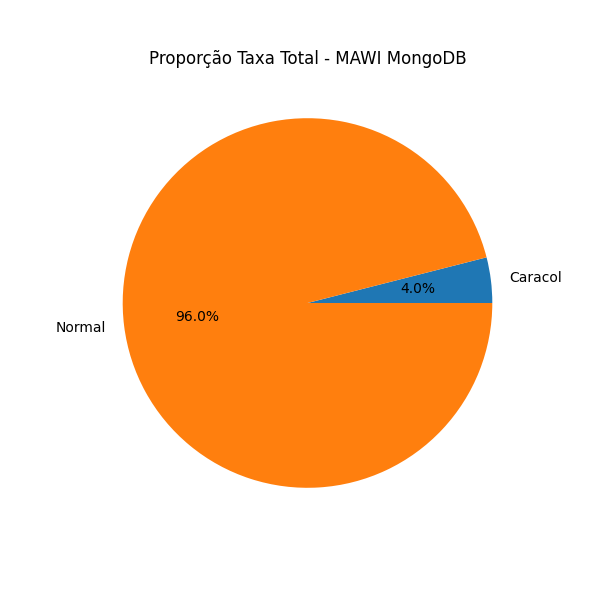
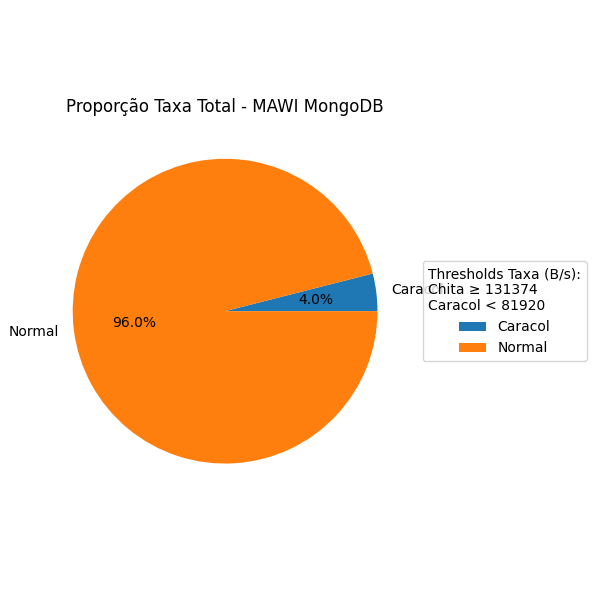
feat: gráfico de barras

Changed region(s): [[0.0, 0.15, 0.96, 0.84], [0.24, 0.09, 0.78, 0.12], [0.3, 0.51, 0.36, 0.54]]

diff --git a/Processamento/Porporcoes.py b/Processamento/Porporcoes.py
@@ -81,8 +81,7 @@ tartaruga_thresh = res.get("avg_duration", 0) + 3 * res.get("std_duration", 0)
 chita_thresh = res.get("avg_rate", 0) + 3 * res.get("std_rate", 0)
 CARACOL_RATE_THRESHOLD = res.get("avg_rate", 0) - res.get("std_rate", 0)  # Média menos 1 desvio padrão
 if CARACOL_RATE_THRESHOLD < 0:
-    CARACOL_RATE_THRESHOLD = 90 * 1024  # fallback para 92KB/s
-
+    CARACOL_RATE_THRESHOLD = 80 * 1024  # fallback para 92KB/s
 
 log("Thresholds calculados:")
 log(f"  Elefante ≥ {elefante_thresh:.2f} bytes; ")
@@ -199,46 +198,92 @@ result = list(collection.aggregate(pipeline))[0]
 def facet_to_df(facet_result):
     return pd.DataFrame(facet_result).rename(columns={"_id": "Categoria"}) if facet_result else pd.DataFrame(columns=["Categoria", "count"])
 
-total_fluxos = result["total_fluxos"][0]["count"] if result["total_fluxos"] else 0
-log(f"Total de fluxos: {total_fluxos}")
+def get_legend_text(selecao):
+    if selecao == "taxa":
+        return (f"Thresholds Taxa (B/s):\n"
+                f"Chita ≥ {chita_thresh:.0f}\n"
+                f"Caracol < {CARACOL_RATE_THRESHOLD:.0f}")
+    elif selecao == "volume":
+        return (f"Thresholds Volume (bytes):\n"
+                f"Elefante ≥ {elefante_thresh:.0f}\n"
+                f"Rato < {RATO_THRESHOLD}")
+    elif selecao == "duracao":
+        return (f"Thresholds Duração (ms):\n"
+                f"Tartaruga ≥ {tartaruga_thresh:.0f}\n"
+                f"Libélula < {LIBELULA_THRESHOLD}")
+    else:
+        return ""
 
-def plot_pie(df, title, filename):
+def plot_pie(df, title, filename, legend_text=None):
     if df.empty:
         return
     plt.figure(figsize=(6, 6))
-    plt.pie(df["count"], labels=df["Categoria"], autopct="%1.1f%%")
+    patches, texts, autotexts = plt.pie(df["count"], labels=df["Categoria"], autopct="%1.1f%%")
     plt.title(title)
+    if legend_text:
+        plt.legend(
+            patches,
+            df["Categoria"],
+            title=legend_text,
+            loc="upper left",
+            bbox_to_anchor=(1.05, 1)
+        )
+        plt.subplots_adjust(right=0.75)
+    else:
+        plt.tight_layout()
     plt.savefig(os.path.join(PATH_GRAPHS, f"{today_str}_{filename}.png"))
     plt.close()
+
+
+def plot_bar_means(df_means, title, filename):
+    if df_means.empty:
+        return
+    df_means = df_means.set_index("Categoria")
+    ax = df_means[["media_duration", "media_bytes", "media_packets"]].plot(kind="bar", figsize=(10,6))
+    ax.set_title(title)
+    ax.set_ylabel("Valores médios")
+    plt.xticks(rotation=0)
+    plt.tight_layout()
+    plt.savefig(os.path.join(PATH_GRAPHS, f"{today_str}_{filename}.png"))
+    plt.close()
+
+total_fluxos = result["total_fluxos"][0]["count"] if result["total_fluxos"] else 0
+log(f"Total de fluxos: {total_fluxos}")
 
 # Contagens e médias para volume
 if "volume" in selecionados:
     df_volume = facet_to_df(result["contagem_volume"])
     df_volume.to_csv(os.path.join(PATH_GRAPHS, f"{today_str}_Contagem_Volume.csv"), index=False)
-    plot_pie(df_volume[df_volume["Categoria"].isin(["Elefante", "Rato"])], f"Proporção Elefante/Rato - {NAME}", "Pie_Elefante_Rato")
-    plot_pie(df_volume, f"Proporção Volume Total - {NAME}", "Pie_Volume_Todas")
+    plot_pie(df_volume[df_volume["Categoria"].isin(["Elefante", "Rato"])], 
+             f"Proporção Elefante/Rato - {NAME}", "Pie_Elefante_Rato", legend_text=get_legend_text("volume"))
+    plot_pie(df_volume, f"Proporção Volume Total - {NAME}", "Pie_Volume_Todas", legend_text=get_legend_text("volume"))
     df_medias_volume = facet_to_df(result.get("medias_volume", []))
     df_medias_volume.to_csv(os.path.join(PATH_GRAPHS, f"{today_str}_Medias_Volume.csv"), index=False)
+    plot_bar_means(df_medias_volume, f"Médias por padrão de volume - {NAME}", "Bar_Medias_Volume")
     log("Geração de gráficos e CSV para volume concluída.")
 
 # Contagens e médias para duração
 if "duracao" in selecionados:
     df_duracao = facet_to_df(result["contagem_duracao"])
     df_duracao.to_csv(os.path.join(PATH_GRAPHS, f"{today_str}_Contagem_Duracao.csv"), index=False)
-    plot_pie(df_duracao[df_duracao["Categoria"].isin(["Libélula", "Tartaruga"])], f"Proporção Libélula/Tartaruga - {NAME}", "Pie_Libelula_Tartaruga")
-    plot_pie(df_duracao, f"Proporção Duração Total - {NAME}", "Pie_Duracao_Todas")
+    plot_pie(df_duracao[df_duracao["Categoria"].isin(["Libélula", "Tartaruga"])], 
+             f"Proporção Libélula/Tartaruga - {NAME}", "Pie_Libelula_Tartaruga", legend_text=get_legend_text("duracao"))
+    plot_pie(df_duracao, f"Proporção Duração Total - {NAME}", "Pie_Duracao_Todas", legend_text=get_legend_text("duracao"))
     df_medias_duracao = facet_to_df(result.get("medias_duracao", []))
     df_medias_duracao.to_csv(os.path.join(PATH_GRAPHS, f"{today_str}_Medias_Duracao.csv"), index=False)
+    plot_bar_means(df_medias_duracao, f"Médias por padrão de duração - {NAME}", "Bar_Medias_Duracao")
     log("Geração de gráficos e CSV para duração concluída.")
 
 # Contagens e médias para taxa
 if "taxa" in selecionados:
     df_taxa = facet_to_df(result["contagem_taxa"])
     df_taxa.to_csv(os.path.join(PATH_GRAPHS, f"{today_str}_Contagem_Taxa.csv"), index=False)
-    plot_pie(df_taxa[df_taxa["Categoria"].isin(["Chita", "Caracol"])], f"Proporção Chita/Caracol - {NAME}", "Pie_Chita_Caracol")
-    plot_pie(df_taxa, f"Proporção Taxa Total - {NAME}", "Pie_Taxa_Todas")
+    plot_pie(df_taxa[df_taxa["Categoria"].isin(["Chita", "Caracol"])], 
+             f"Proporção Chita/Caracol - {NAME}", "Pie_Chita_Caracol", legend_text=get_legend_text("taxa"))
+    plot_pie(df_taxa, f"Proporção Taxa Total - {NAME}", "Pie_Taxa_Todas", legend_text=get_legend_text("taxa"))
     df_medias_taxa = facet_to_df(result.get("medias_taxa", []))
     df_medias_taxa.to_csv(os.path.join(PATH_GRAPHS, f"{today_str}_Medias_Taxa.csv"), index=False)
+    plot_bar_means(df_medias_taxa, f"Médias por padrão de taxa - {NAME}", "Bar_Medias_Taxa")
     log("Geração de gráficos e CSV concluída.")
 
 log("Processo concluído.")
